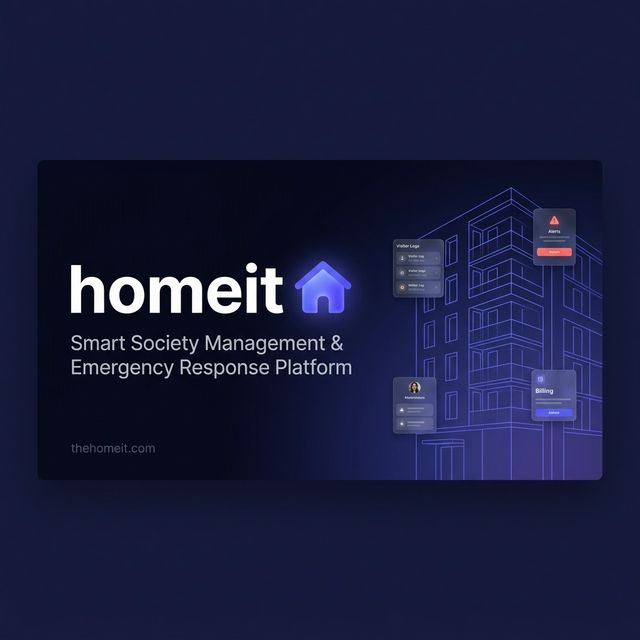
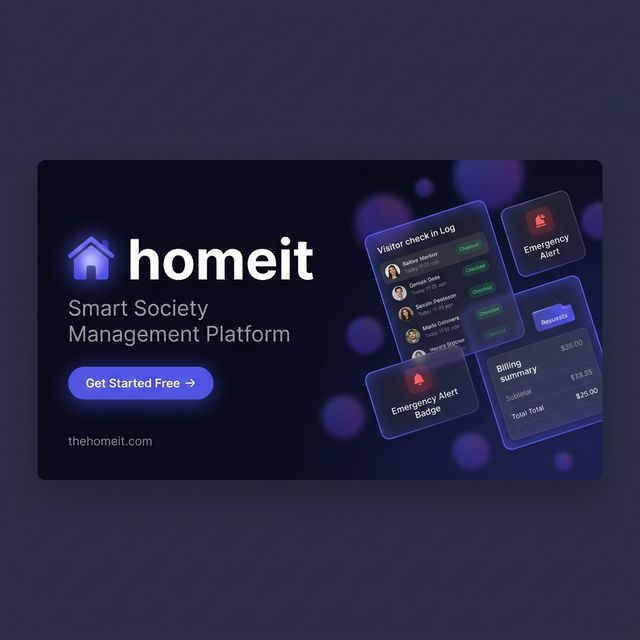
Fix OG image size to 1200x630, shorten title to 42 chars, add CTA to OG image

diff --git a/index.html b/index.html
@@ -8,7 +8,7 @@
     <link rel="canonical" href="https://thehomeit.com/" />
 
     <!-- ✅ Primary SEO Meta Tags -->
-    <title>Homeit — Smart Society Management & Emergency Response Platform</title>
+    <title>Homeit — Smart Society Management</title>
     <meta name="description" content="Homeit is a modern society management platform with visitor management, digital billing, emergency response, amenity booking, and community tools — all in one app." />
     <meta name="keywords" content="society management app, housing society software, visitor management system, emergency response platform, apartment management, community management app, homeit" />
     <meta name="author" content="Homeit" />
@@ -17,7 +17,7 @@
     <!-- ✅ Open Graph (Facebook, LinkedIn, WhatsApp previews) -->
     <meta property="og:type" content="website" />
     <meta property="og:url" content="https://thehomeit.com/" />
-    <meta property="og:title" content="Homeit — Smart Society Management & Emergency Response Platform" />
+    <meta property="og:title" content="Homeit — Smart Society Management" />
     <meta property="og:description" content="Manage your housing society smarter. Visitor management, digital billing, emergency alerts, amenity booking and more — all in one platform." />
     <meta property="og:image" content="https://thehomeit.com/og-image.png" />
     <meta property="og:site_name" content="Homeit" />
@@ -26,7 +26,7 @@
     <!-- ✅ Twitter Card (Twitter/X previews) -->
     <meta name="twitter:card" content="summary_large_image" />
     <meta name="twitter:url" content="https://thehomeit.com/" />
-    <meta name="twitter:title" content="Homeit — Smart Society Management & Emergency Response Platform" />
+    <meta name="twitter:title" content="Homeit — Smart Society Management" />
     <meta name="twitter:description" content="Manage your housing society smarter. Visitor management, digital billing, emergency alerts and more." />
     <meta name="twitter:image" content="https://thehomeit.com/og-image.png" />
 
